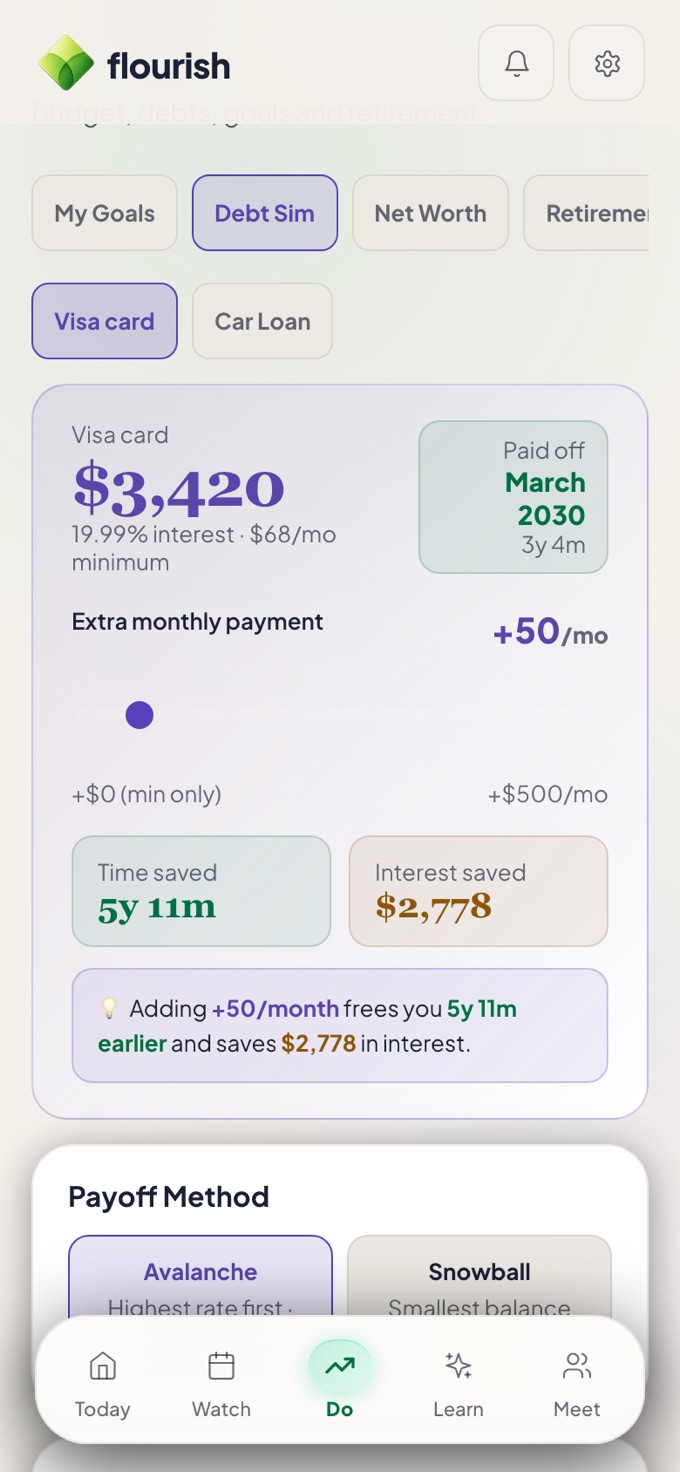
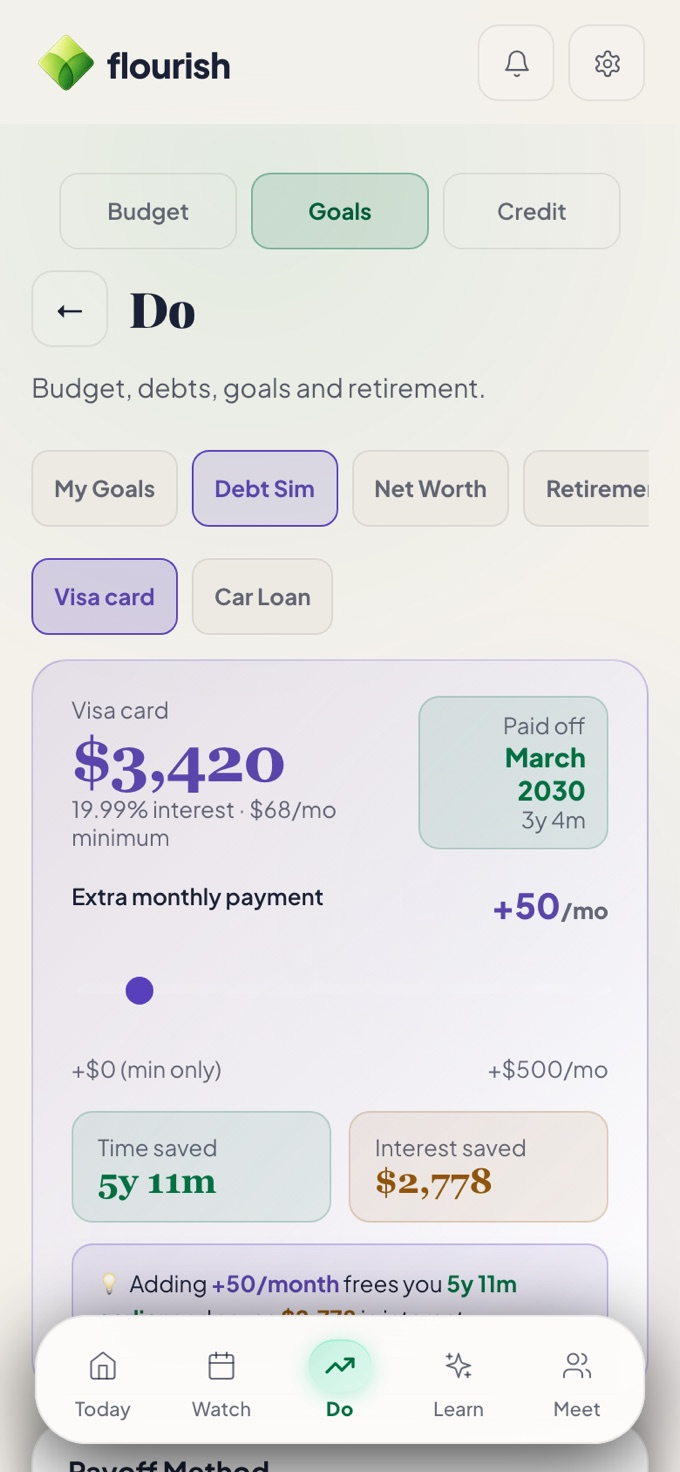
Blog: what the adversarial review found
Nothing HIGH. Fixed:
- The menu dropped to a second row at 365 wide and under, which took in 360-wide Android phones. The pair is now
  narrow enough for one row from 360; it still wraps (never cuts) at 320.
- The Watch screen in guides A and B showed three bills and no payday beside words about bills and deposits. Captured
  again from the live demo, lower in the list: bills, the lowest day and a payday. The Do screen in guide C is captured
  from the top of the screen, so no text shows through the app's header.

Left for Amanda: the tab titles (shorter than the approved titles because the build caps them at 60), and guide C's
screen, which shows flourish's sample debt under "Example, sample data" on a page whose own figures are all FCAC's.

diff --git a/src/App.jsx b/src/App.jsx
@@ -16312,10 +16312,10 @@ function AuthScreen({ onAuth, onTryDemo, foundingNote, startOnLogin = false, tpf
             .fll-brand span{ font-family:'Plus Jakarta Sans',sans-serif; font-weight:800; font-size:32px; color:#163a1c; letter-spacing:-0.3px; }
             .fll-login{ background:transparent; border:1px solid rgba(46,139,46,0.2); color:#52624f; border-radius:99px; padding:8px 18px; font-size:13px; font-weight:600; cursor:pointer; font-family:'Plus Jakarta Sans',sans-serif; }
             .fll-login:hover{ background:rgba(46,139,46,0.08); }
-            /* The menu: Blog (the guides, a plain link to /guides/), then Log in. On a very narrow phone the pair drops under the name instead of being cut off. */
+            /* The menu: Blog (the guides, a plain link to /guides/), then Log in. One row from 360 wide; on a narrower phone the pair drops under the name instead of being cut off. */
             .fll-nav{ flex-wrap:wrap; gap:6px 12px; }
-            .fll-nav-links{ display:flex; align-items:center; gap:14px; margin-left:auto; }
-            .fll-navlink{ display:inline-flex; align-items:center; min-height:44px; padding:0 6px; color:#52624f; font-size:13px; font-weight:600; text-decoration:none; font-family:'Plus Jakarta Sans',sans-serif; }
+            .fll-nav-links{ display:flex; align-items:center; gap:8px; margin-left:auto; }
+            .fll-navlink{ display:inline-flex; align-items:center; min-height:44px; padding:0 4px; color:#52624f; font-size:13px; font-weight:600; text-decoration:none; font-family:'Plus Jakarta Sans',sans-serif; }
             .fll-navlink:hover{ color:#2E8B2E; }
 
             .fll-hero{ text-align:center; padding-top:30px; padding-bottom:14px; }
